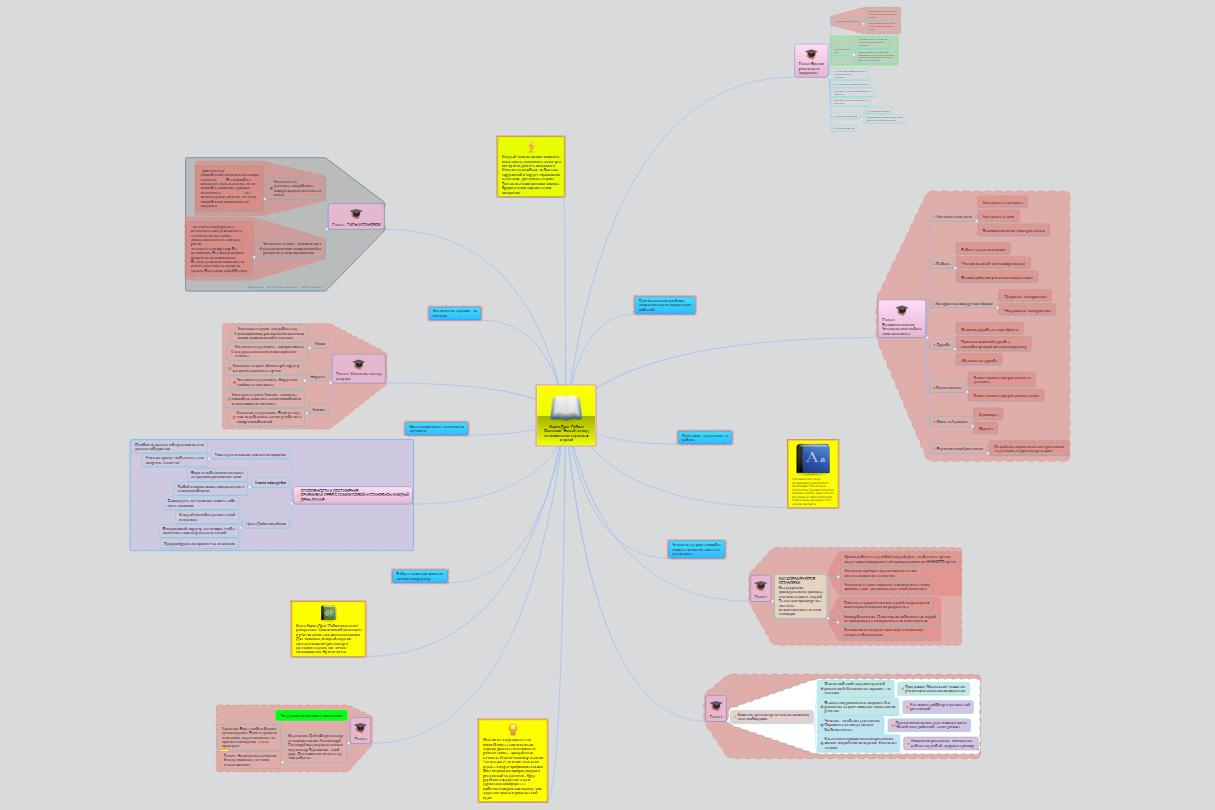
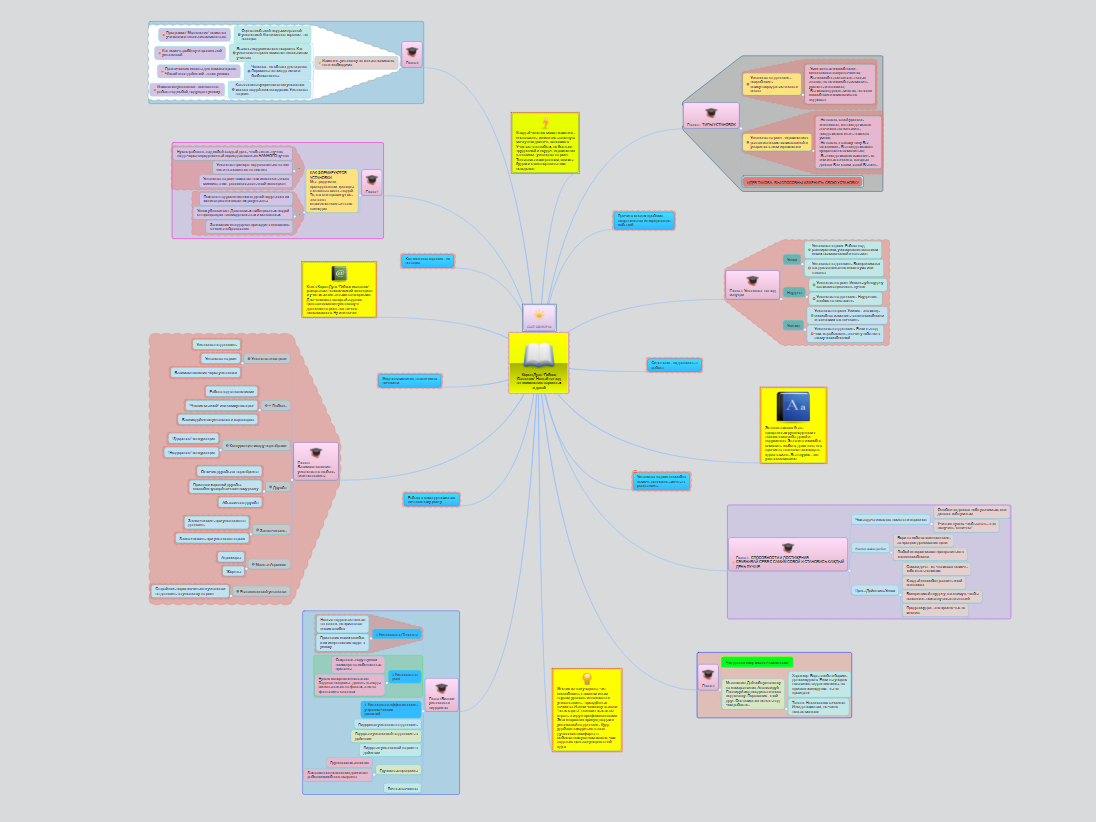
замена картинки в блоке карта

diff --git a/index.html b/index.html
@@ -160,9 +160,9 @@
         </section>
         <section id="map" class="container map">
             <h2 class="title">Интеллектуальная карта книги</h2>
-           <p> В этом проекте мы подготовили интеллектуальную карту книги. Это поможет вам увидеть полную картину и раскроет ключевые моменты содержание книги. Подробно с картой вы можете ознакомиться здесь: <a href="https://mm.tt/2028986626?t=Ix1wCd5T6Y" rel="noopener noreferrer" target="_blank">Интеллектуальная карта</a>
+           <p> В этом проекте мы подготовили интеллектуальную карту книги. Это поможет вам увидеть полную картину и раскроет ключевые моменты содержание книги. Подробно с картой вы можете ознакомиться здесь: <a href="https://www.mindmeister.com/2028986626?t=Ou2zxZ3rOs" rel="noopener noreferrer" target="_blank">Интеллектуальная карта</a>
         </p>
-            <a href="https://mm.tt/2028986626?t=Ix1wCd5T6Y" rel="noopener noreferrer" target="_blank"><img src="./images/map.png" alt="Интеллектуальная карта" width="1200"></a>
+            <a href="https://www.mindmeister.com/2028986626?t=Ou2zxZ3rOs" rel="noopener noreferrer" target="_blank"><img src="./images/map.png" alt="Интеллектуальная карта" width="1200"></a>
             
         </section>
        
